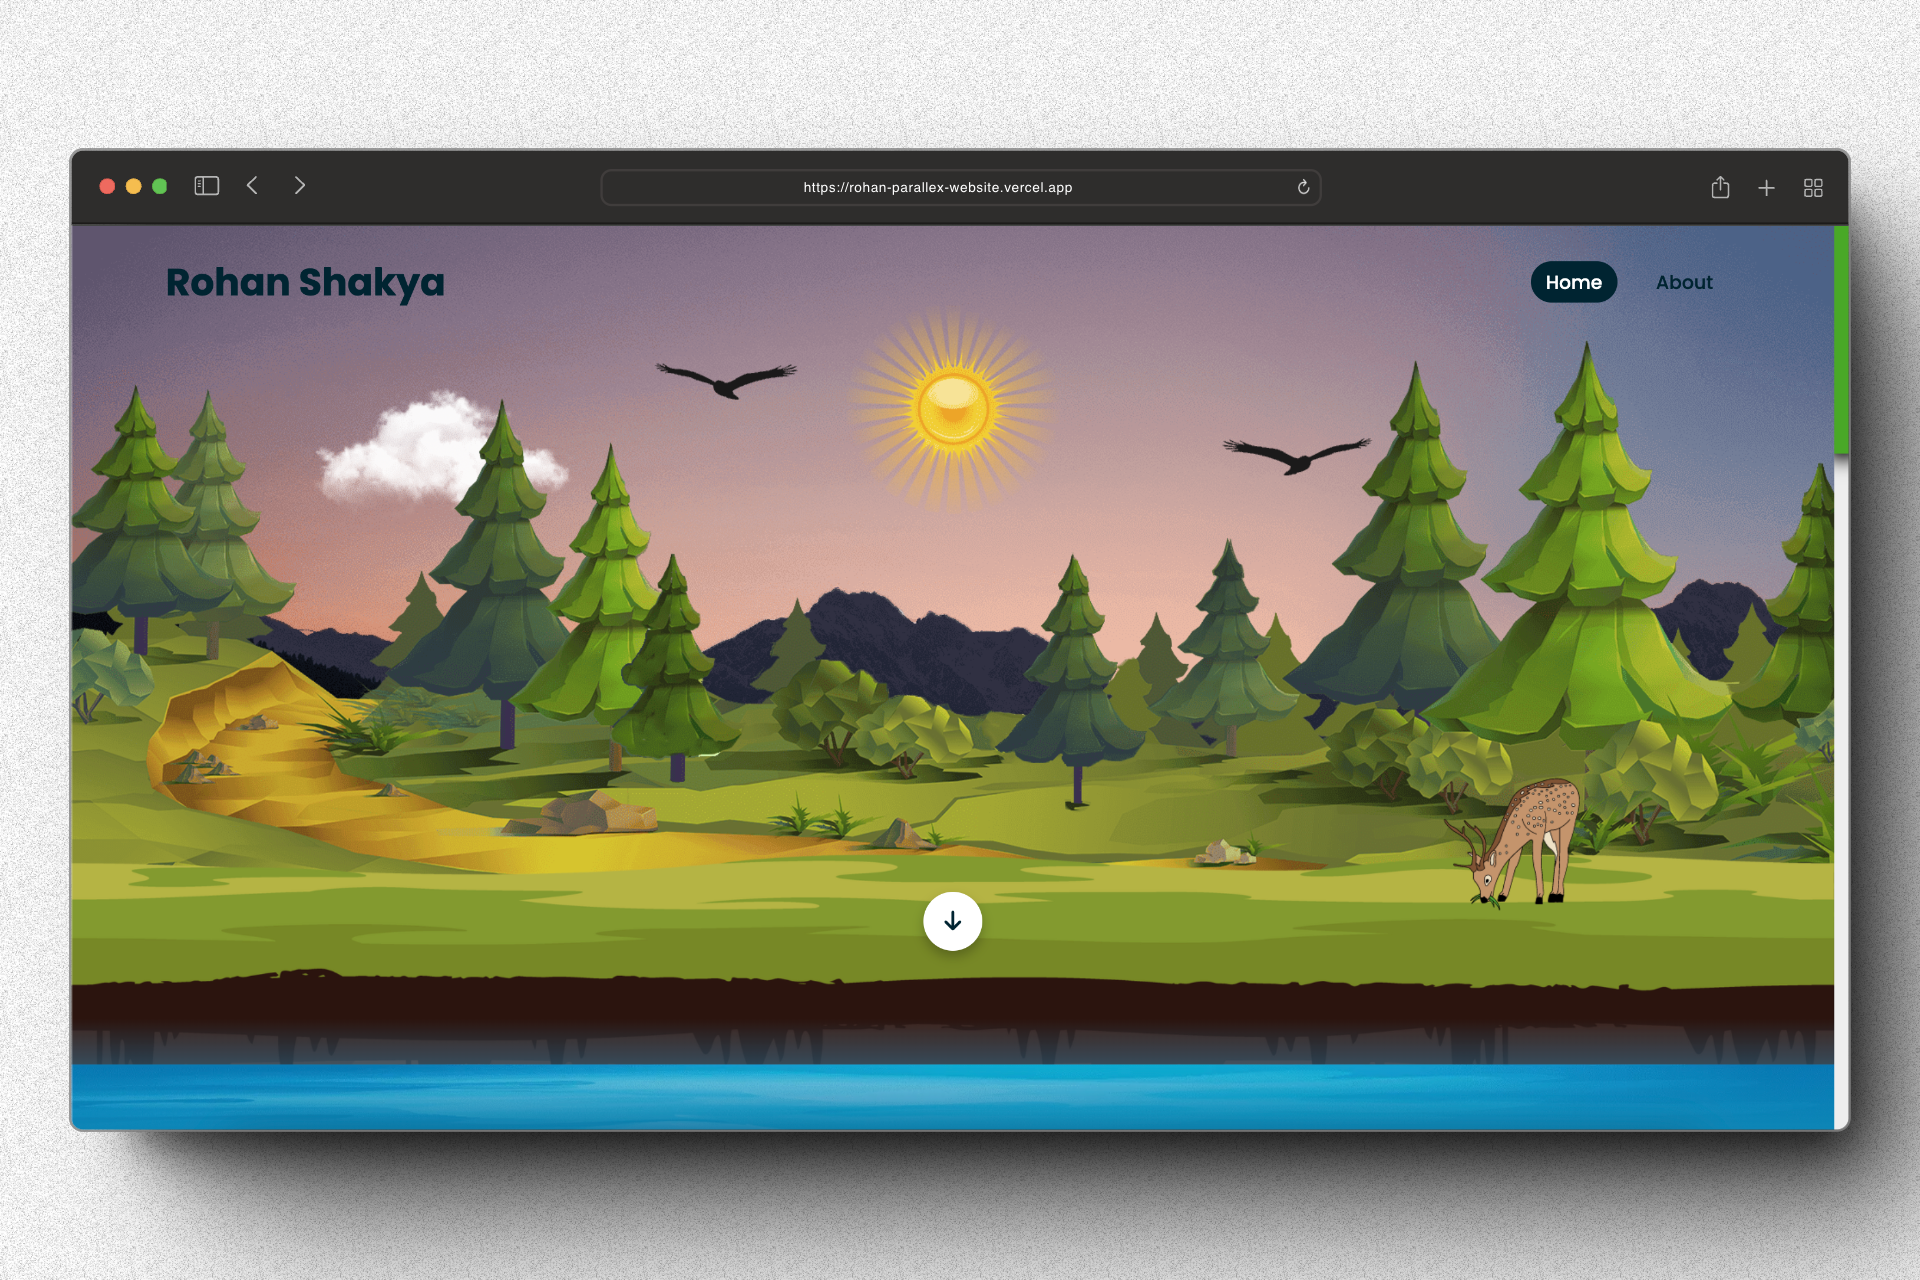
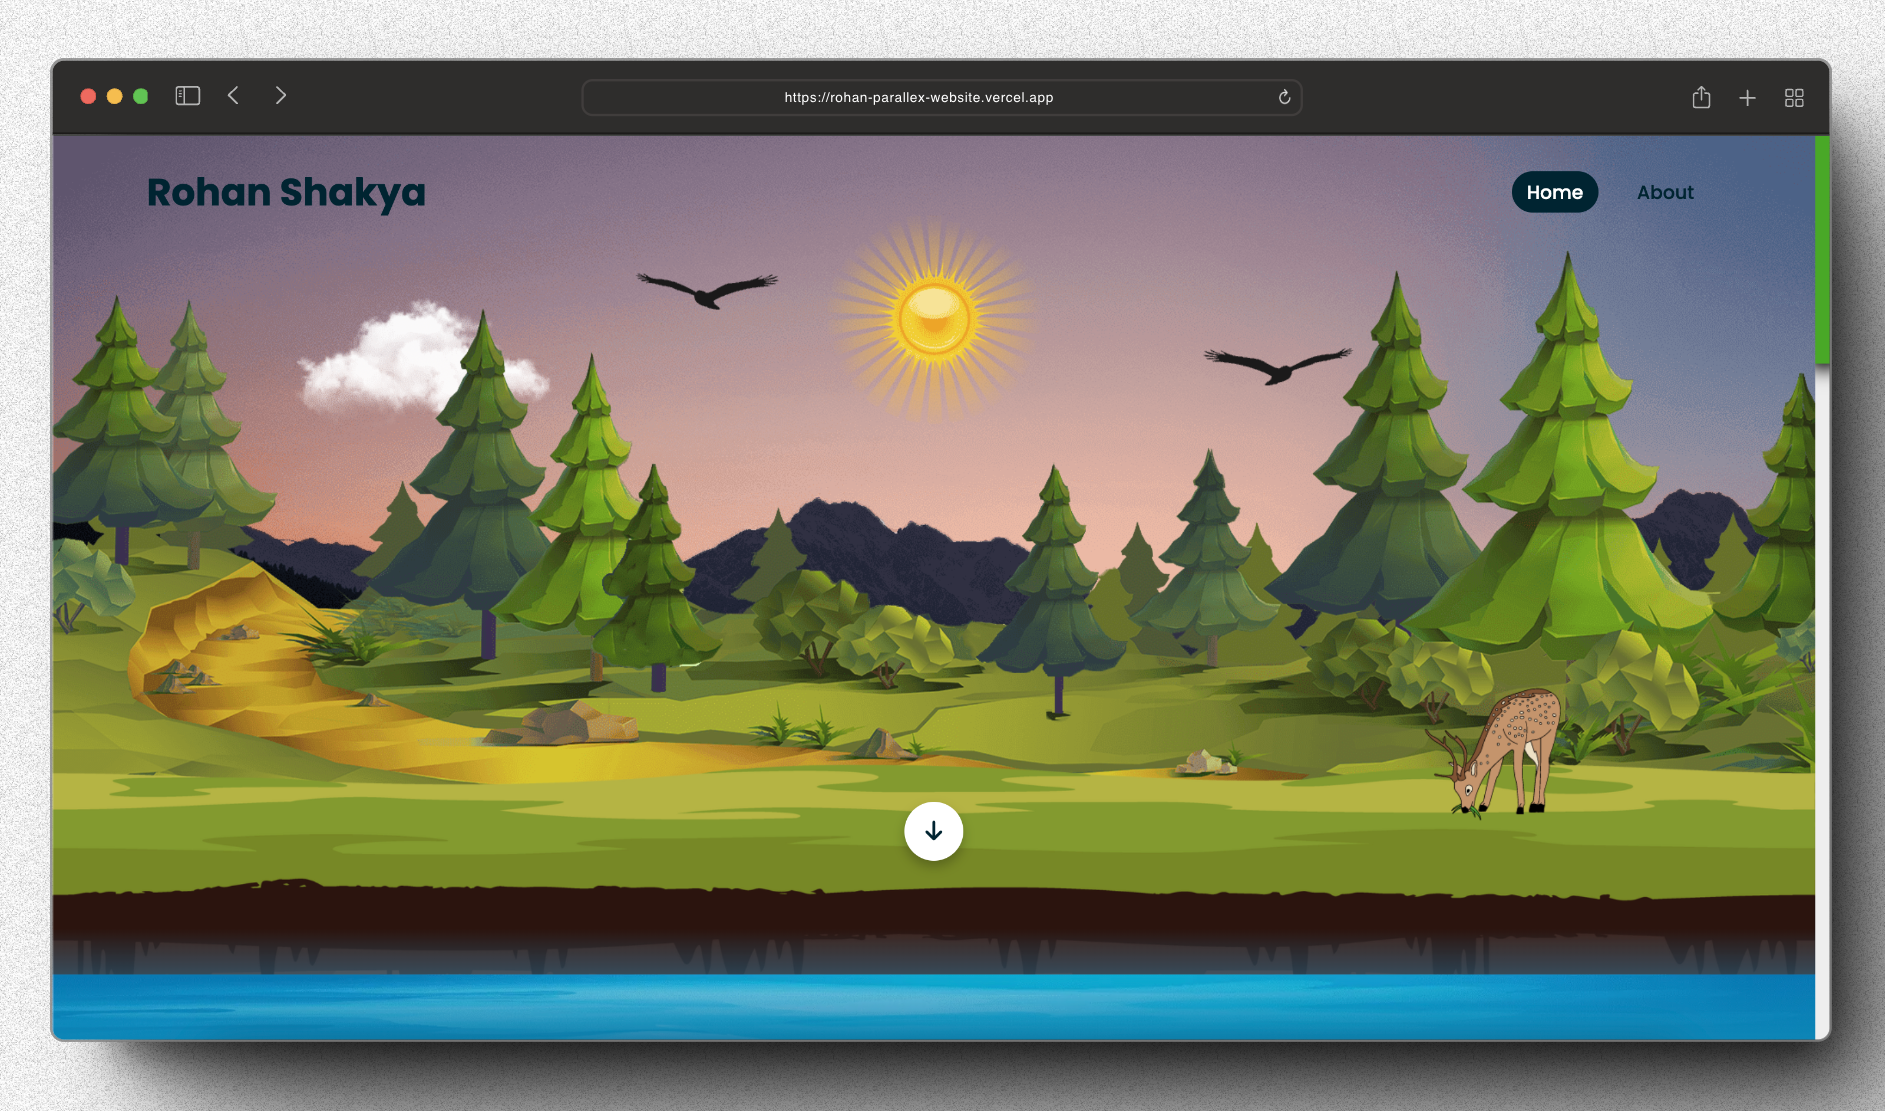
✨docs: added preview image

diff --git a/README.md b/README.md
@@ -2,6 +2,8 @@
 
 This project introduces a website that offers an engaging and interactive experience, featuring captivating scrolling effects known as parallax scrolling.
 
+![Rohan Shakya Parallax](https://raw.githubusercontent.com/Rohan-Shakya/rohan-parallex-website/main/images/preview.png)
+
 ## Technologies Used
 
 - HTML5
